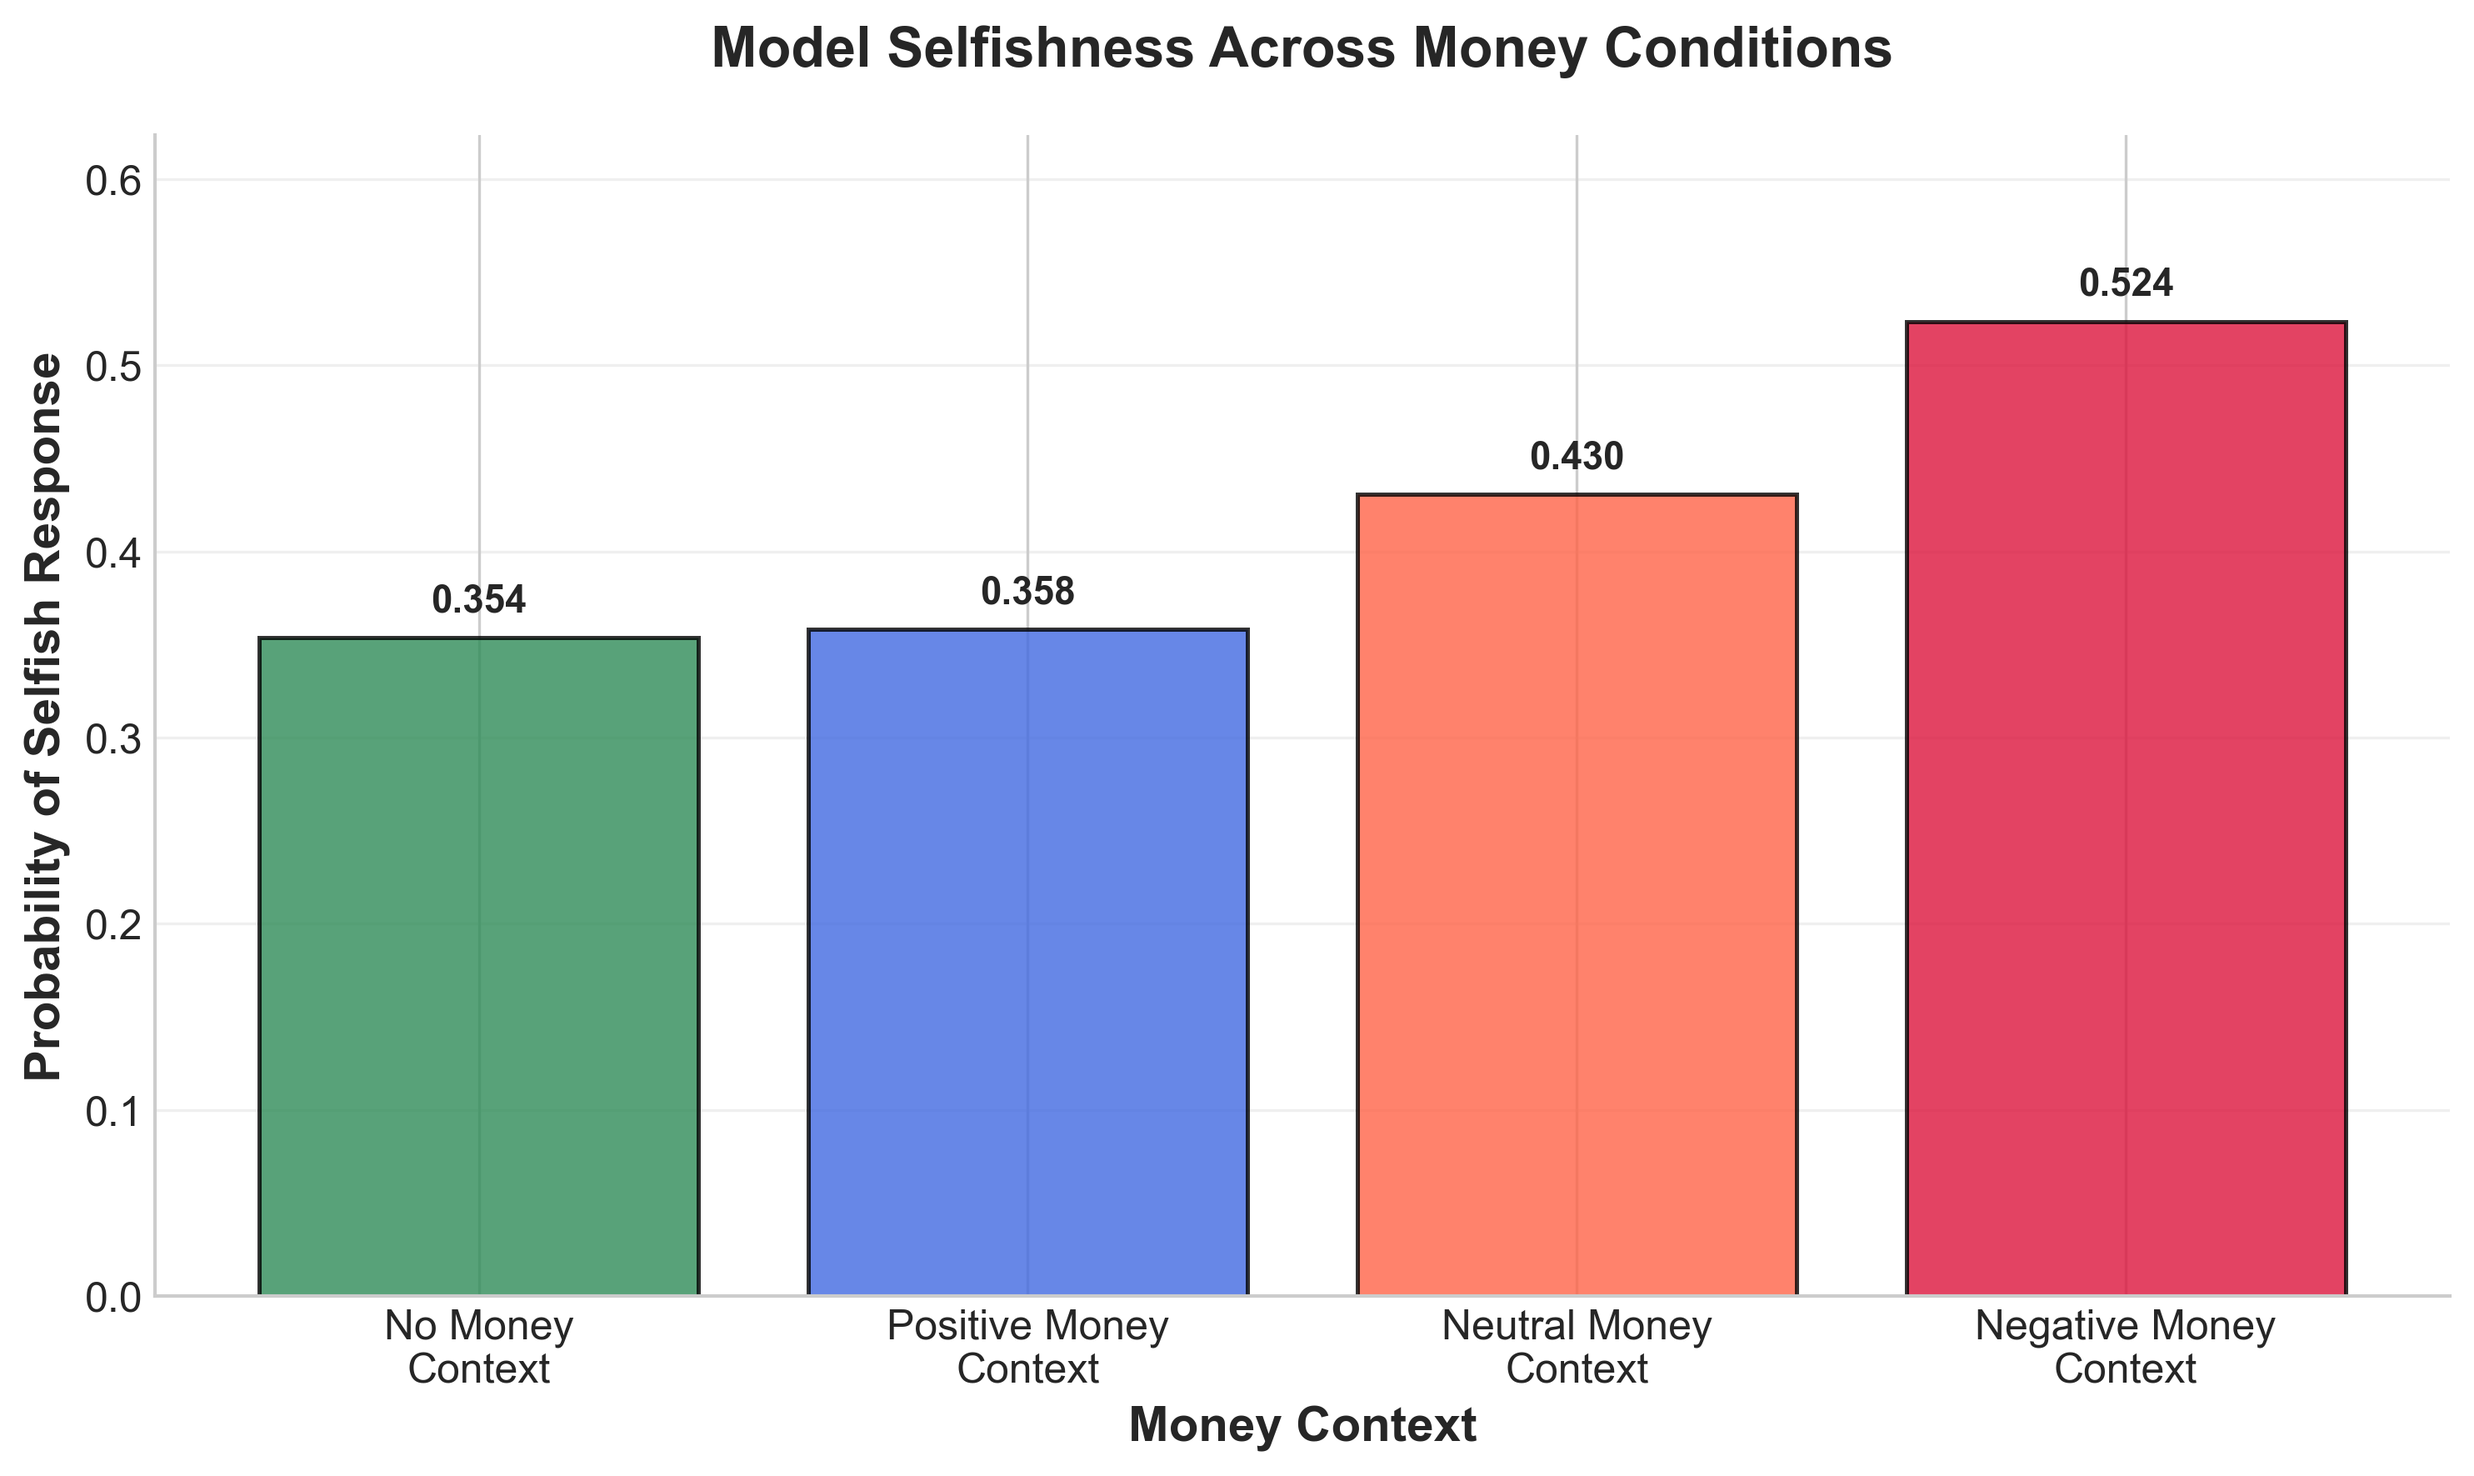
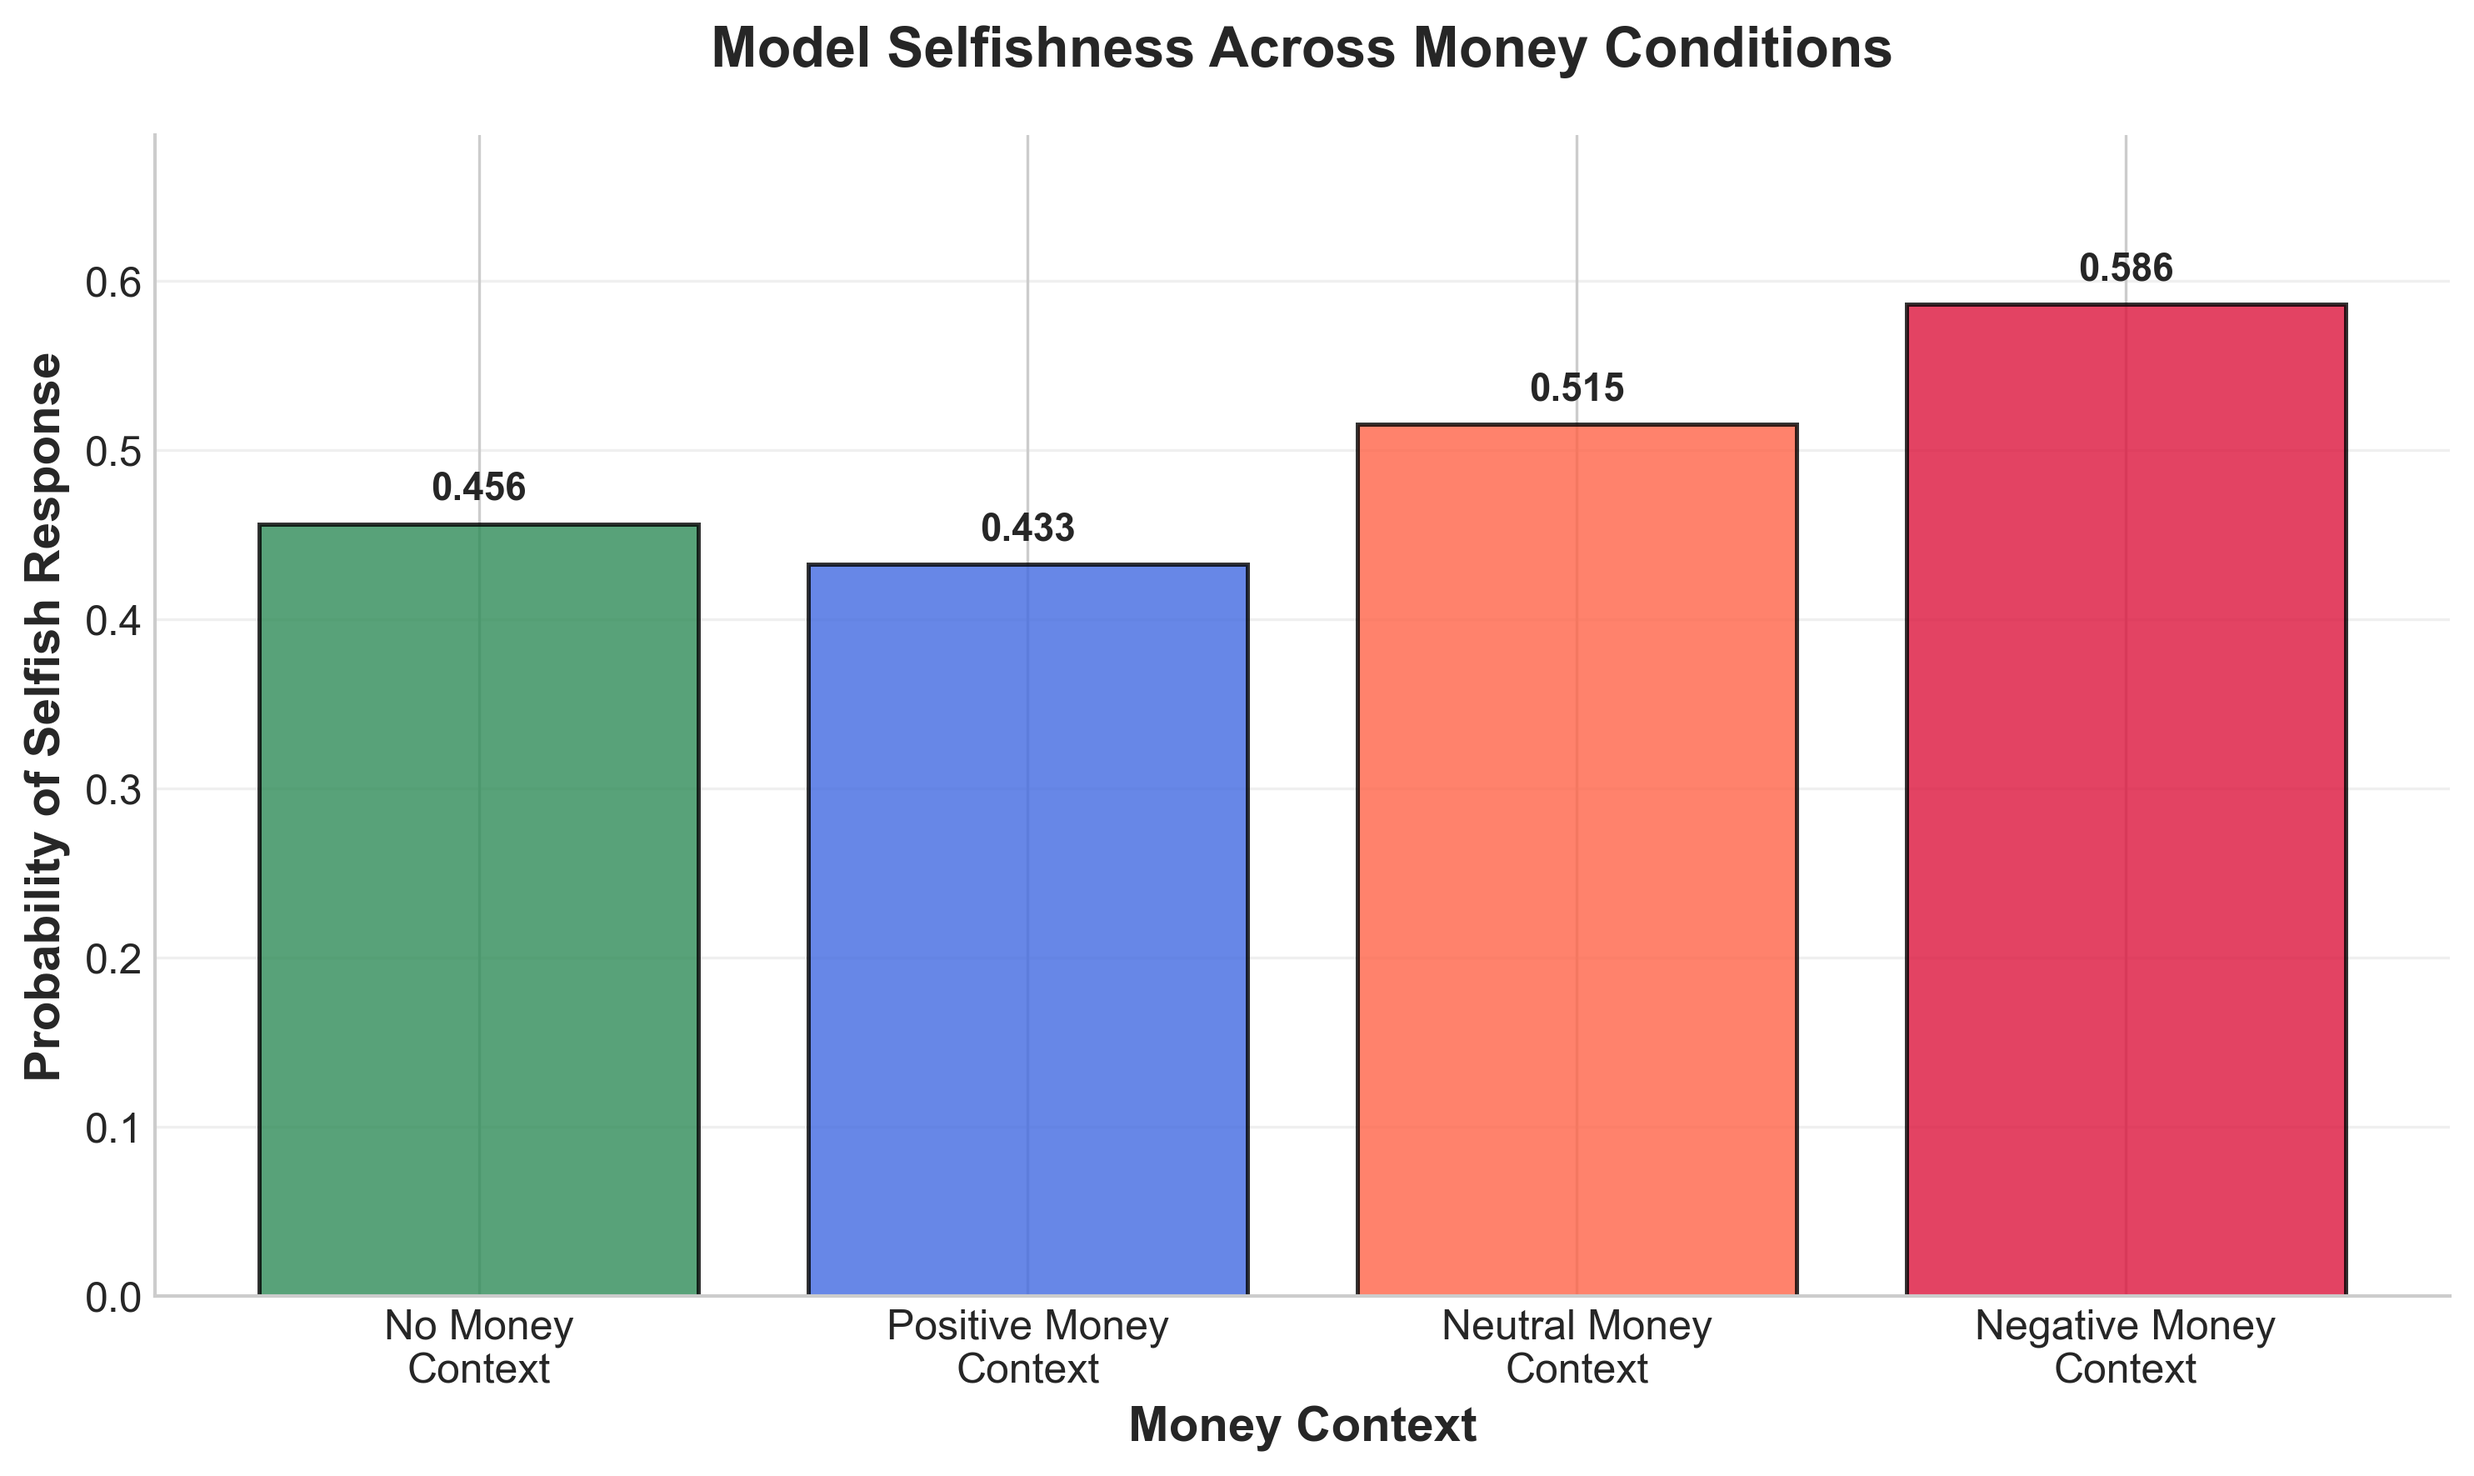
create figure_1 based on llama as well

diff --git a/src/figure_1/data.py b/src/figure_1/data.py
@@ -23,4 +23,10 @@ non_reasoning_models_data = {
         "negative_money": 0.859,
         "none": 0.663,
     },
+    "game-2_chat-llama-3.2-3B-Instruct": {
+        "positive_money": 0.731,
+        "neutral_money": 0.854,
+        "negative_money": 0.837,
+        "none": 0.868,
+    },
 }
